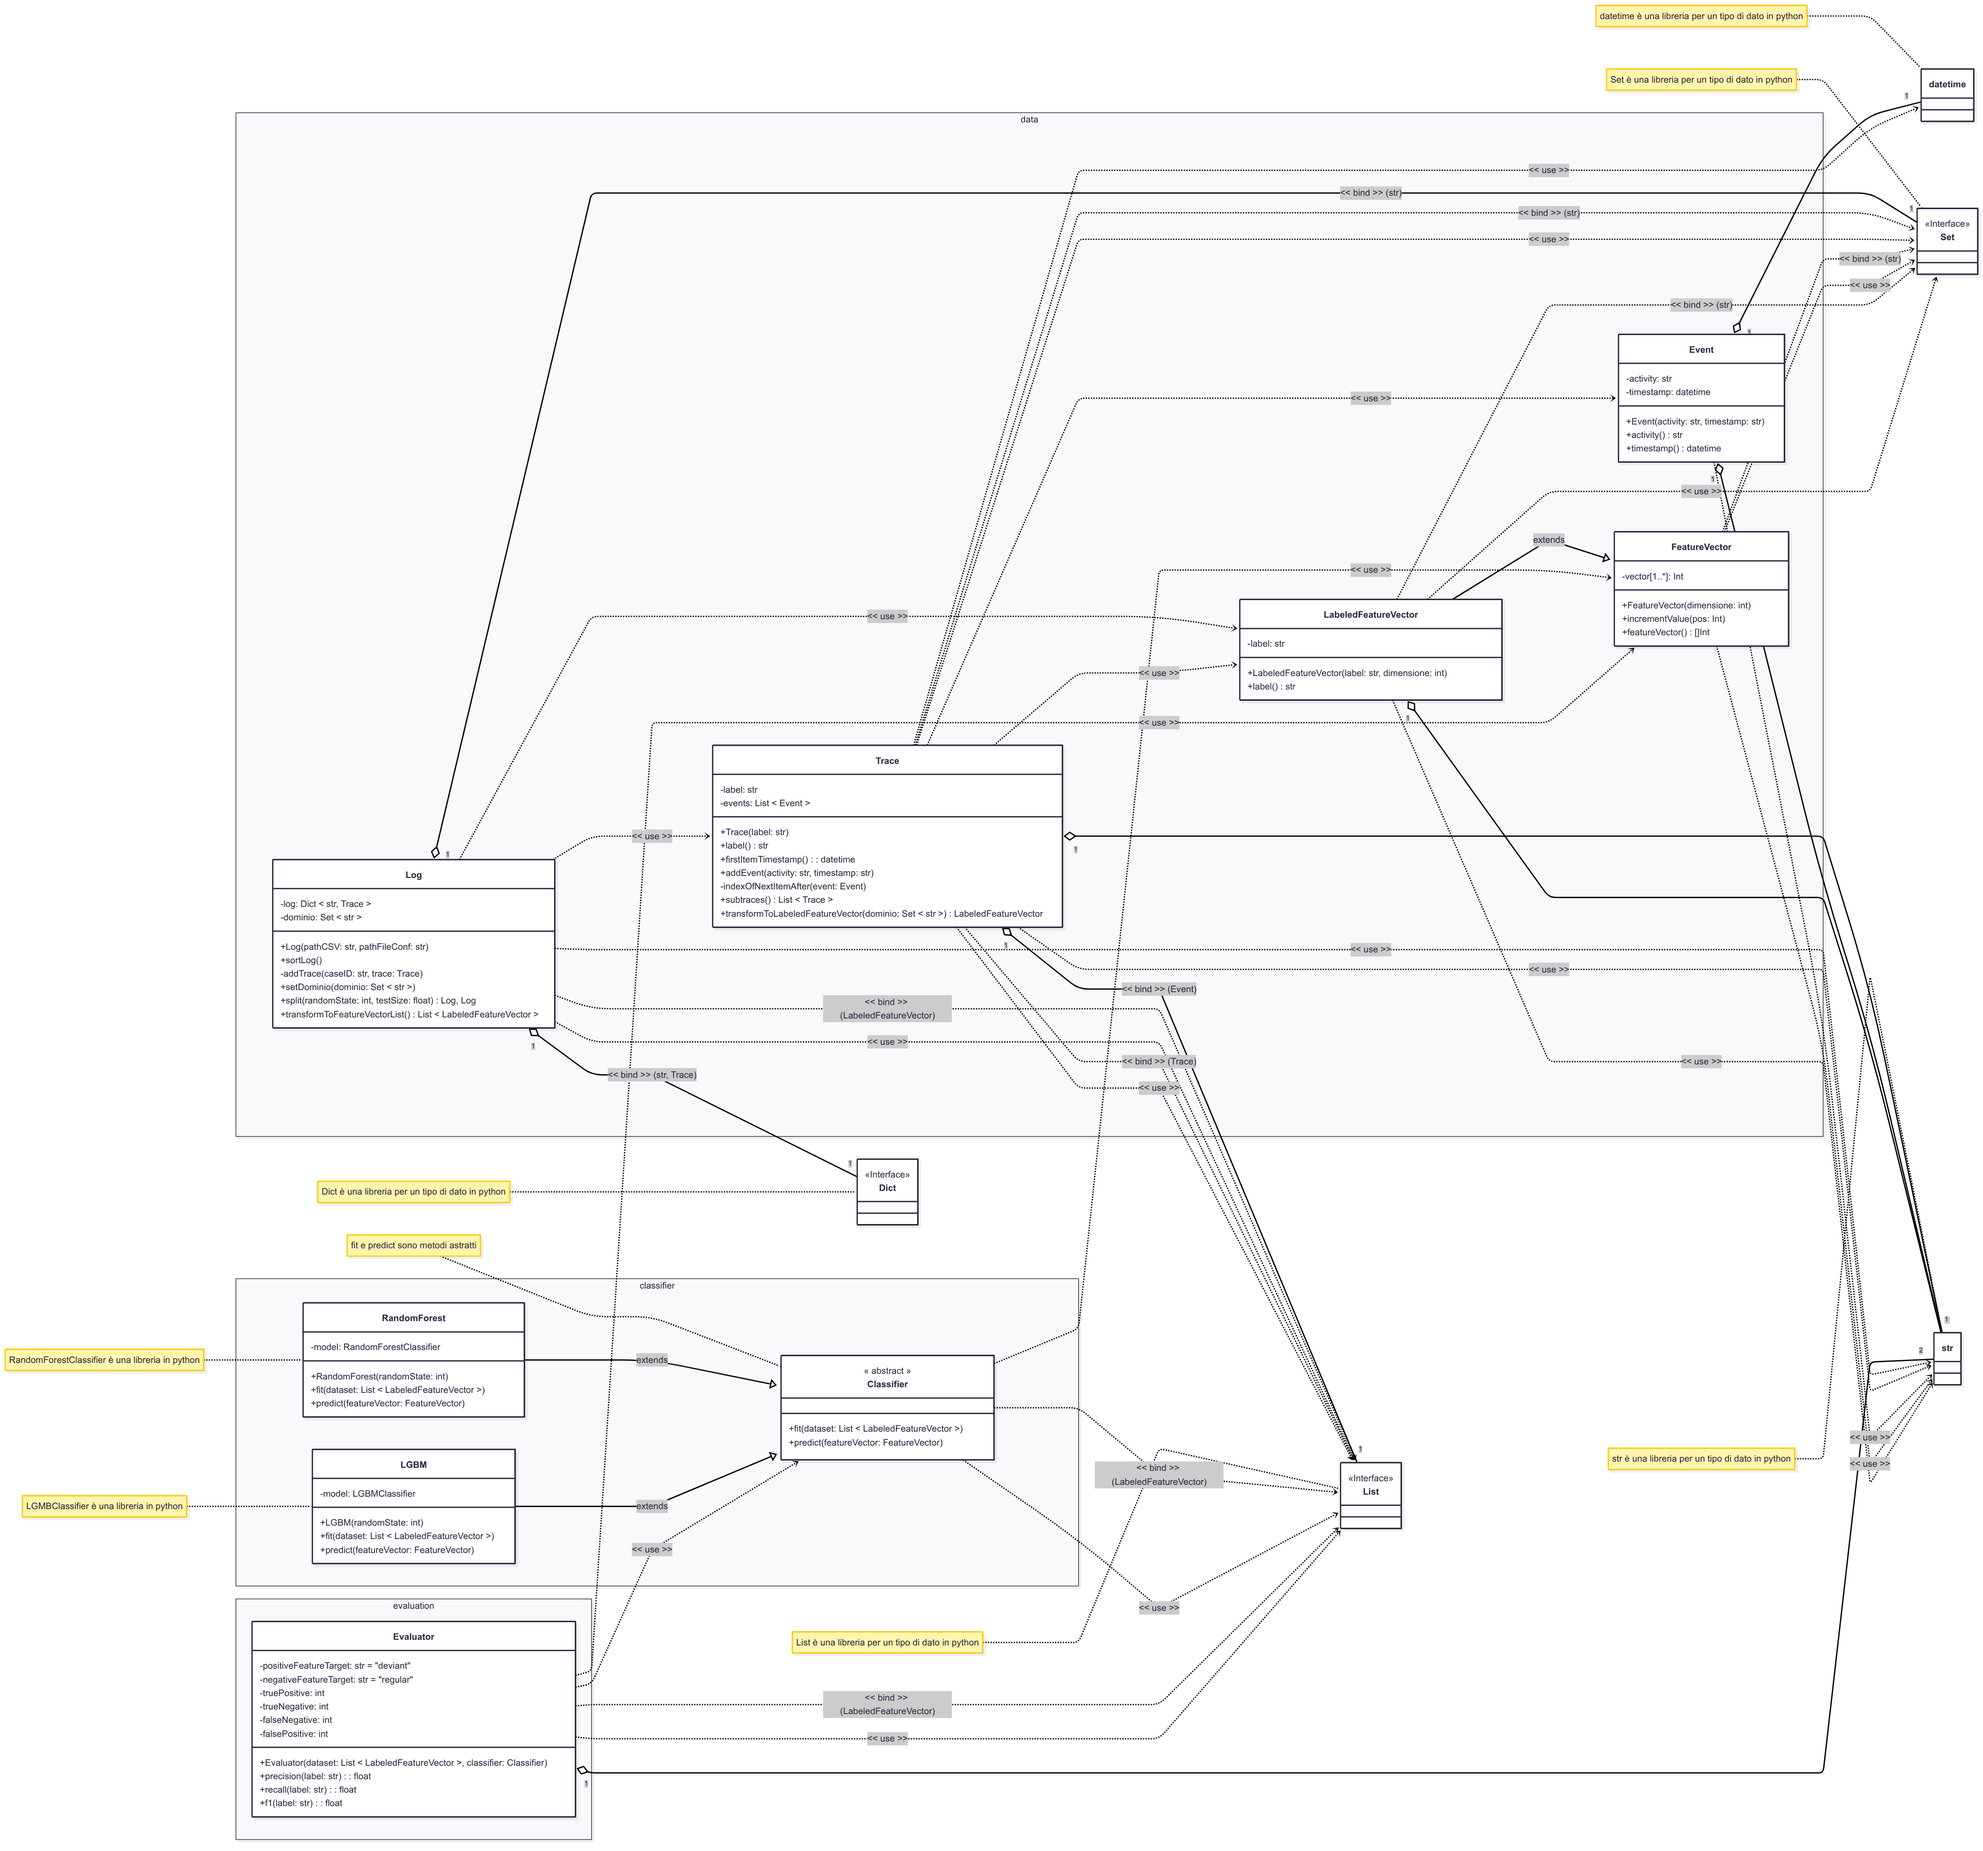
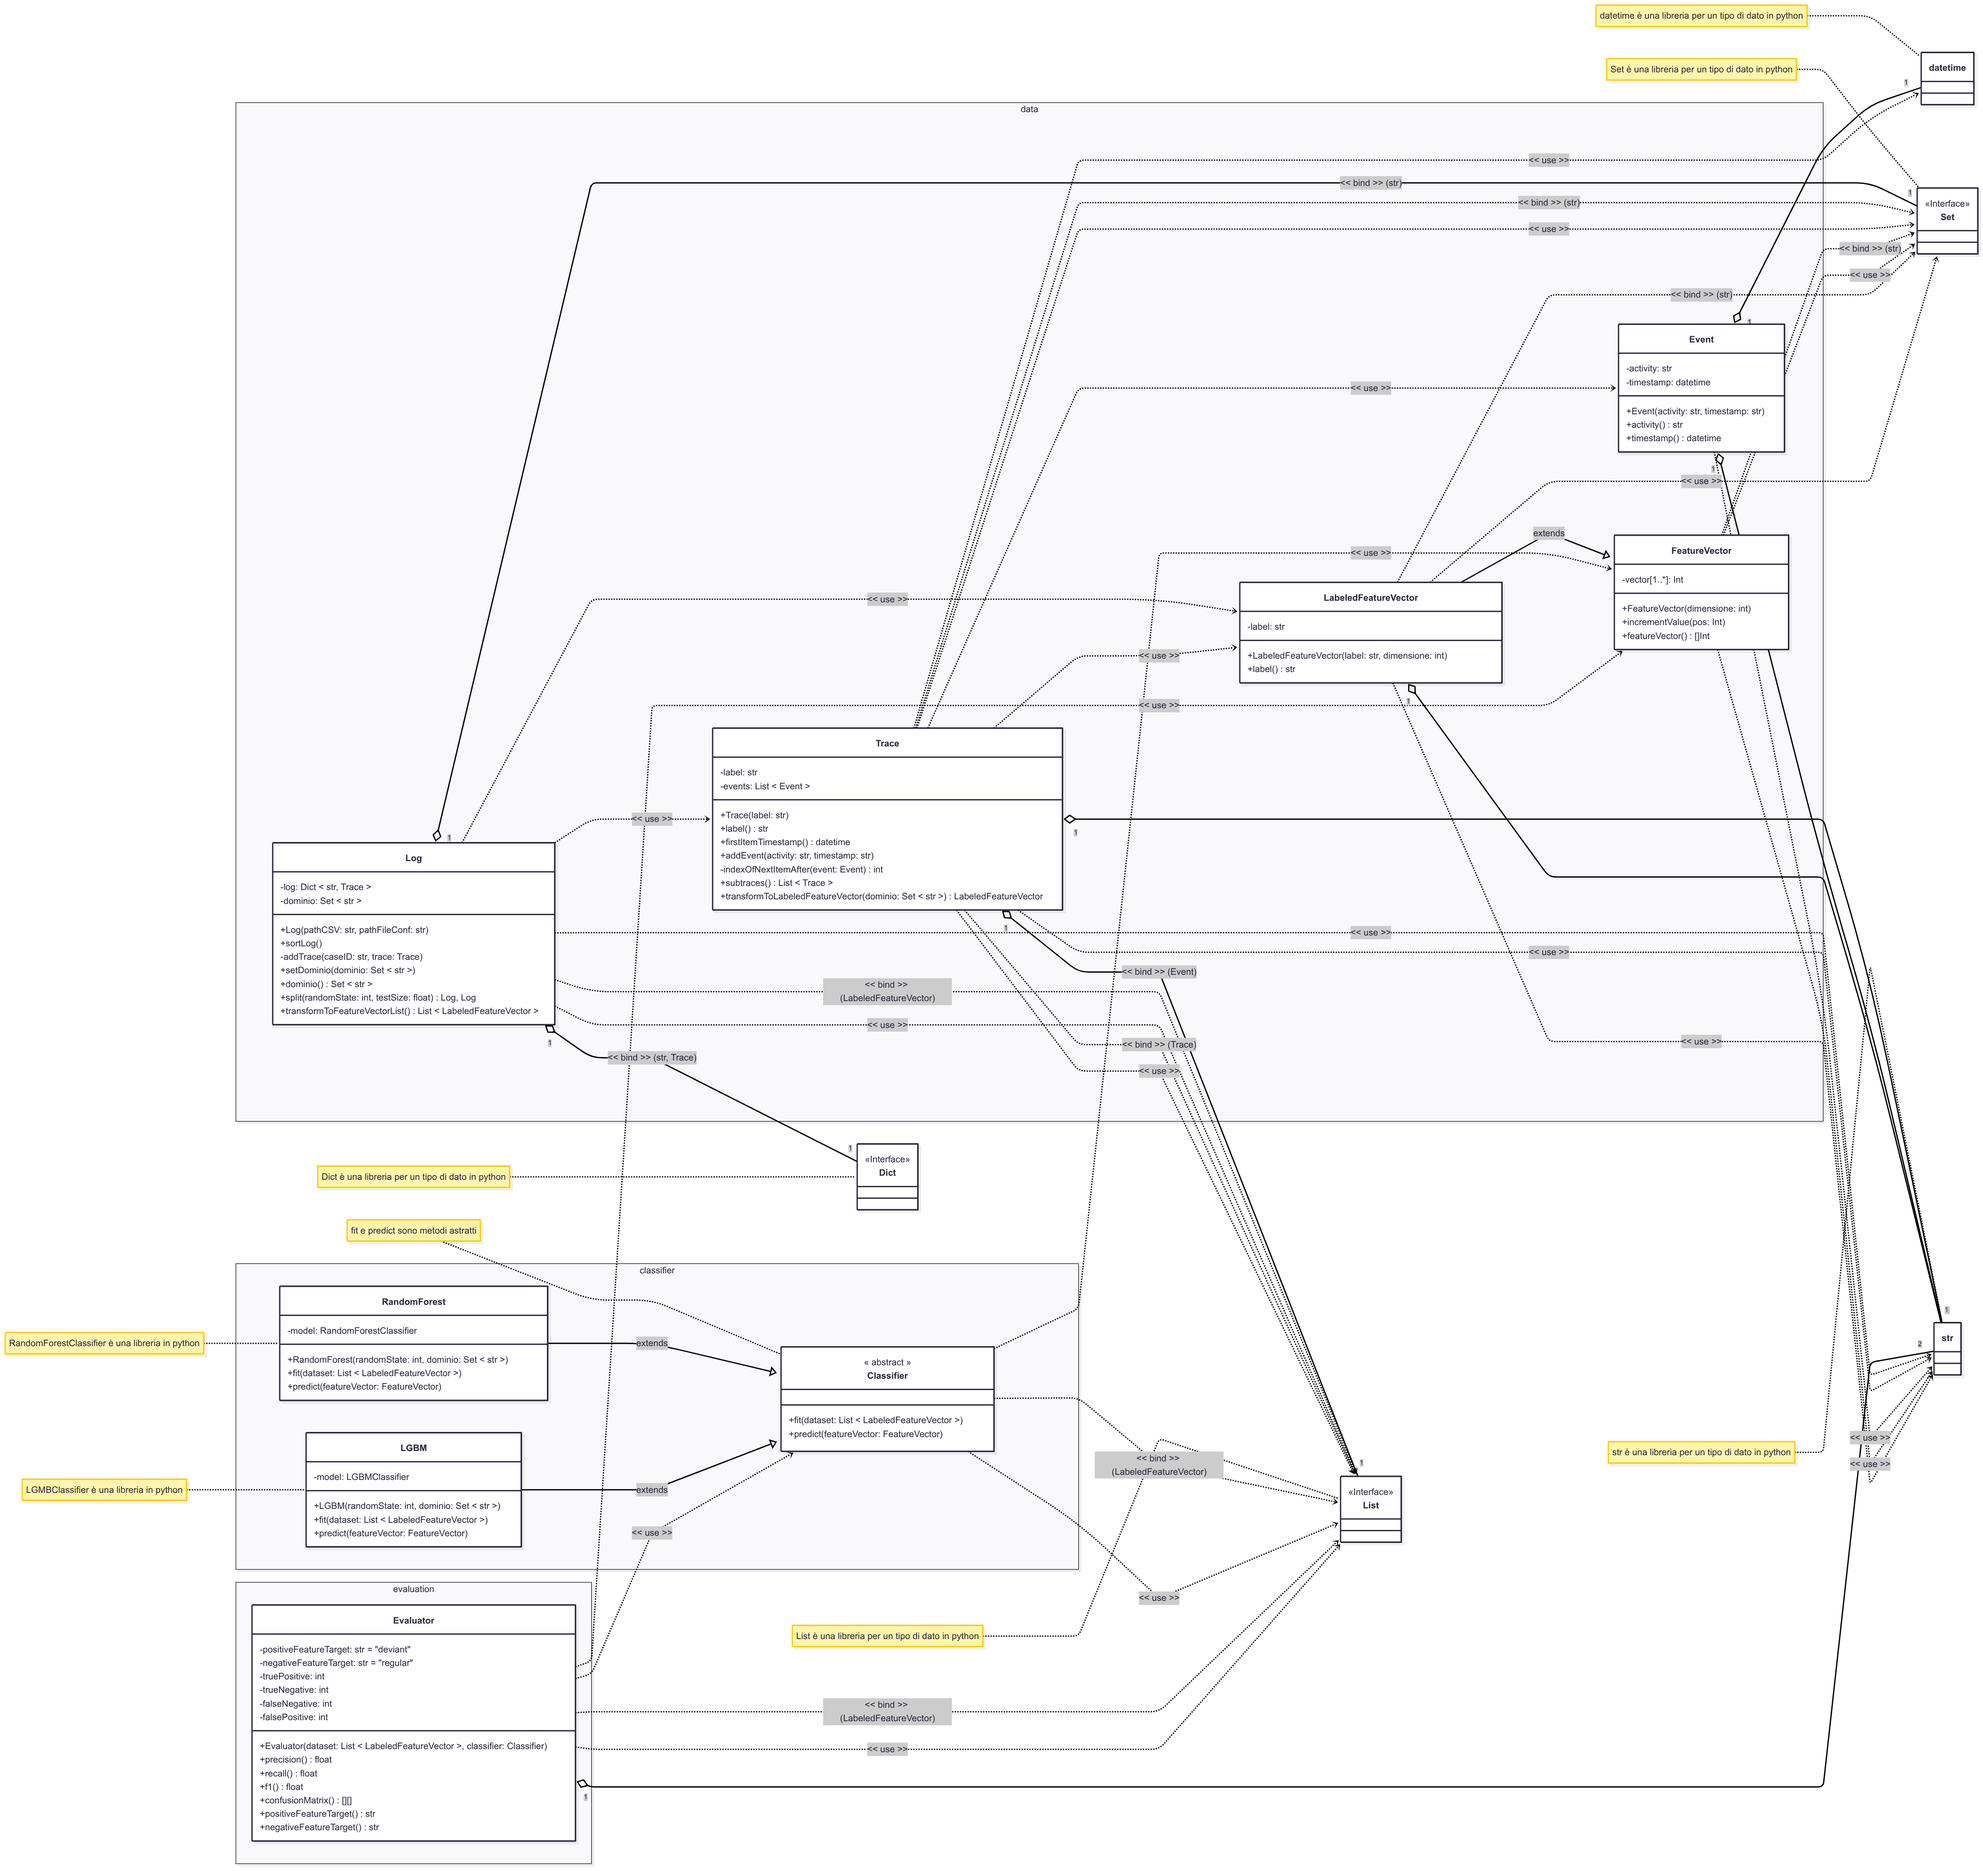
correzioni + uml

diff --git a/classifier/classifier.py b/classifier/classifier.py
@@ -1,15 +1,13 @@
 from abc import ABC, abstractmethod
 
-
 class Classifier(ABC):
-
     def __init__(self, random_state: int):
         self._random_state = random_state
 
     @abstractmethod
-    def fit(self, dataset, dominio):
+    def fit(self, dataset):
         pass
 
     @abstractmethod
-    def predict(self, feature_vector):
+    def predict(self, featureVectors):
         pass

diff --git a/data/log.py b/data/log.py
@@ -76,9 +76,6 @@ class Log:
             for subtrace in subtraces:
                 labeledFeatureVectorList.append(subtrace.transformToLabeledFeatureVector(self._dominio))
         return labeledFeatureVectorList
-
-    def log(self):
-        return self._log
     
     def __str__(self):
         out = f""

diff --git a/classifier/randomForestClassifier.py b/classifier/randomForestClassifier.py
@@ -1,7 +1,7 @@
 from .classifier import Classifier
 from sklearn.ensemble import RandomForestClassifier as RFC
-from typing import override
 from typing import List
+from typing import override
 import pandas as pd
 
 

diff --git a/classifier/LGBMClassifier.py b/classifier/LGBMClassifier.py
@@ -1,7 +1,7 @@
 from .classifier import Classifier
 from lightgbm import LGBMClassifier as LGBM
-from typing import override
 from typing import List
+from typing import override
 import pandas as pd
 
 

diff --git a/UML.md b/UML.md
@@ -62,9 +62,9 @@ classDiagram
             -events: List < Event >
             +Trace(label: str)
             +label() str
-            +firstItemTimestamp(): datetime
+            +firstItemTimestamp() datetime
             +addEvent(activity: str, timestamp: str)
-            -indexOfNextItemAfter(event: Event)
+            -indexOfNextItemAfter(event: Event) int
             +subtraces() List < Trace >
             +transformToLabeledFeatureVector(dominio: Set < str >) LabeledFeatureVector
         }
@@ -76,6 +76,7 @@ classDiagram
             +sortLog()
             -addTrace(caseID: str, trace: Trace)
             +setDominio(dominio: Set < str >)
+            +dominio() Set < str >
             +split(randomState: int, testSize: float) Log, Log
             +transformToFeatureVectorList() List < LabeledFeatureVector >
         }
@@ -104,14 +105,14 @@ classDiagram
 
         class RandomForest {
             -model: RandomForestClassifier
-            +RandomForest(randomState: int)
+            +RandomForest(randomState: int, dominio: Set < str >)
             +fit(dataset: List < LabeledFeatureVector >)
             +predict(featureVector: FeatureVector)
         }
 
         class LGBM {
             -model: LGBMClassifier
-            +LGBM(randomState: int)
+            +LGBM(randomState: int, dominio: Set < str >)
             +fit(dataset: List < LabeledFeatureVector >)
             +predict(featureVector: FeatureVector)
         }
@@ -126,9 +127,12 @@ classDiagram
             -falseNegative: int
             -falsePositive: int
             +Evaluator(dataset: List < LabeledFeatureVector >, classifier: Classifier)
-            +precision(label: str): float
-            +recall(label: str): float
-            +f1(label: str): float
+            +precision() float
+            +recall() float
+            +f1() float
+            +confusionMatrix() [][]
+            +positiveFeatureTarget() str
+            +negativeFeatureTarget() str
         }
     }
 
